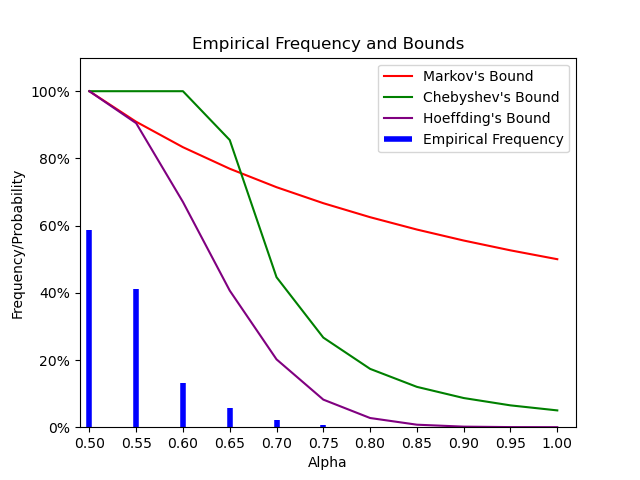
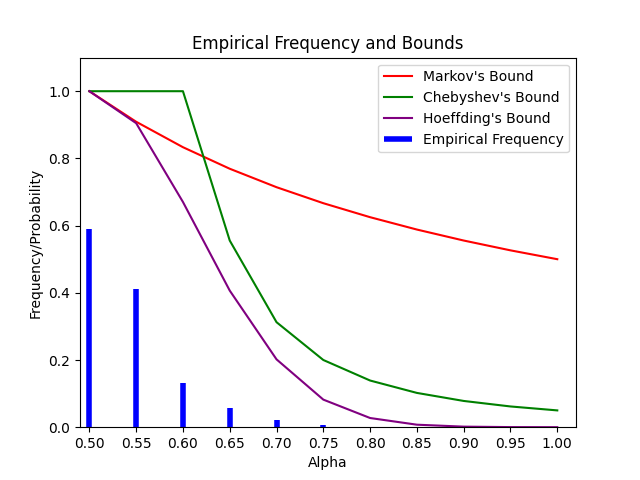
...

diff --git a/Home Assignment 2/LinearReg_task_1.py b/Home Assignment 2/LinearReg_task_1.py
@@ -1,0 +1,58 @@
+import numpy as np
+import matplotlib.pyplot as plt
+
+# Read the data from the file
+data = np.loadtxt('PCB.dt')
+
+X = data[:, 0]
+Y = data[:, 1]
+
+# Create a column with 1s for the intercept
+X = np.c_[X, np.ones(X.shape[0])]
+
+# Calculate the coefficients using the normal equation
+coefficients = np.linalg.inv(X.T @ X) @ X.T @ Y
+print(coefficients)
+
+# Plot the data points
+plt.scatter(X[:, 0], Y, marker='o', color='b', label='Data Points')
+
+# Plot the regression line
+# plt.plot(X[:, 0], X @ coefficients, linestyle='-', color='r', label='Regression Line')
+#plt.show()
+
+# Build a non-linear model with coefficient from the linear regression
+Y_log = np.log(Y)
+
+# Find coefficents a and b for the non-linear model
+coefficients_log = np.linalg.inv(X.T @ X) @ X.T @ Y_log
+print(coefficients_log)
+
+# Use these new coefficients to plot the non-linear function (exp(a*x + b))
+exp = np.exp(coefficients_log)
+print("Log coeffs", exp)
+
+def h(x):
+    return np.exp(coefficients_log[0] * x + coefficients_log[1])
+
+preds = h(X[:, 0])
+
+# calculate mse
+mse = np.mean((preds - Y) ** 2)
+print("MSE", mse)
+
+# Plot the data and the model output
+x = np.linspace(0, 14, 100)
+y = coefficients_log[0] * x + coefficients_log[1]
+plt.figure()
+plt.plot(X[:, 0], Y_log, 'o')
+plt.xlabel('Data')
+plt.ylabel('Log of Data')
+plt.plot(x, y, 'r-')
+plt.show()
+
+
+# Compute the coefficient of determination
+R_2 = 1 - mse / np.var(Y)
+print("R2", R_2)
+

diff --git a/Home Assignment 2/task_1b.py b/Home Assignment 2/task_1b.py
@@ -1,6 +1,5 @@
 import numpy as np
 import matplotlib.pyplot as plt
-from matplotlib.ticker import PercentFormatter
 from scipy.stats import binom
 
 # Number of repetitions and sample size
@@ -41,7 +40,7 @@ for alpha in alpha_values:
 chebyshev_bounds = []
 
 for alpha in alpha_values:
-    chebyshev_bound = ((coin_bias * (1 - coin_bias)) / (alpha * sample_size)) / ((alpha - coin_bias) ** 2)
+    chebyshev_bound = ((coin_bias * (1 - coin_bias)) / (sample_size * (alpha - coin_bias) ** 2))
     chebyshev_bounds = [min(1, bound) for bound in chebyshev_bounds]
     chebyshev_bounds.append(chebyshev_bound)
     
@@ -69,9 +68,6 @@ plt.grid(False)
 plt.ylim((0.0, 1.1))
 plt.xlim((0.08, 1.02))
 plt.xticks([i for i in np.arange(0.1, 1.05, 0.05)])
-
-# Format the Y-axis as percentages
-plt.gca().yaxis.set_major_formatter(PercentFormatter(1))
 
 plt.show()
 

diff --git a/Home Assignment 2/task_1A.py b/Home Assignment 2/task_1A.py
@@ -1,6 +1,5 @@
 import numpy as np
 import matplotlib.pyplot as plt
-from matplotlib.ticker import PercentFormatter
 from scipy.stats import binom
 
 # Number of repetitions and sample size
@@ -39,7 +38,7 @@ for alpha in alpha_values:
 chebyshev_bounds = []
 
 for alpha in alpha_values:
-    chebyshev_bound = coin_bias ** 2 / alpha ** 2
+    chebyshev_bound =  ((coin_bias * (1 - coin_bias)) / (sample_size * (alpha - coin_bias) ** 2))
     chebyshev_bounds = [min(1, bound) for bound in chebyshev_bounds]
     chebyshev_bounds.append(chebyshev_bound)
     
@@ -67,9 +66,6 @@ plt.grid(False)
 plt.ylim((0.0, 1.1))
 plt.xlim((0.49, 1.02))
 plt.xticks([i for i in np.arange(0.5, 1.05, 0.05)])
-
-# Format the Y-axis as percentages
-plt.gca().yaxis.set_major_formatter(PercentFormatter(1))
 
 plt.show()
 
